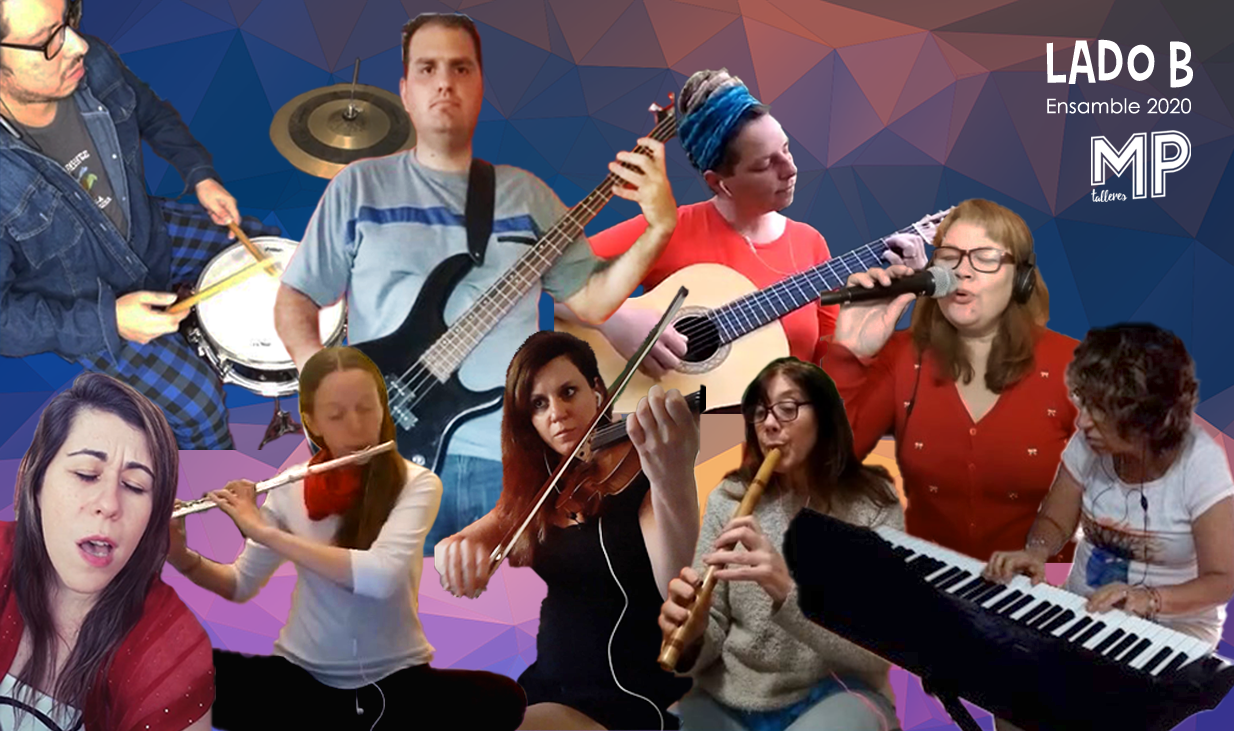
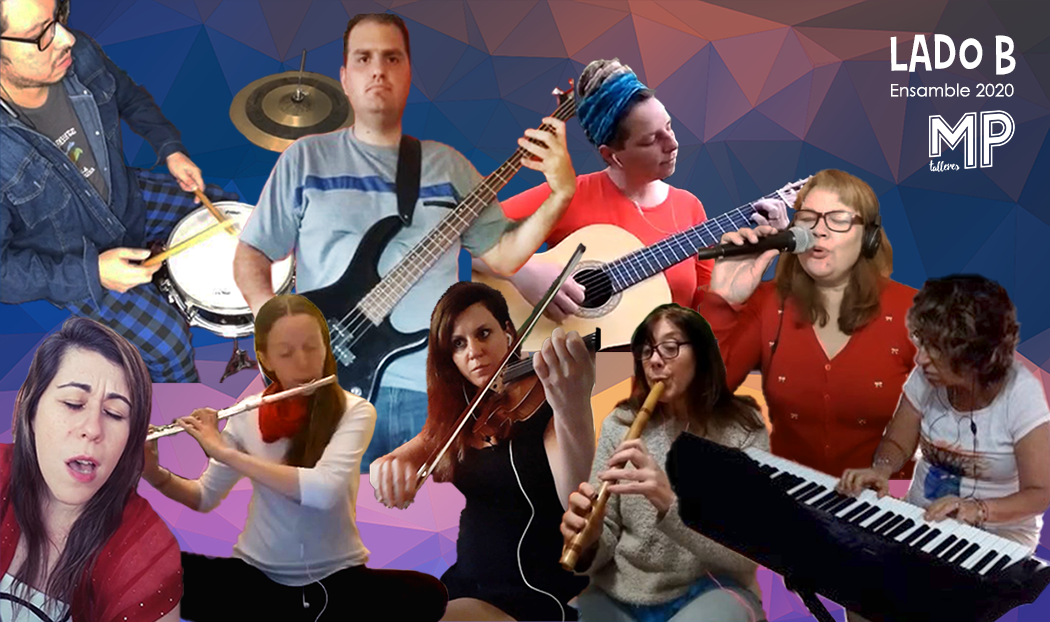
reduje foto LadoB

Changed region(s): [[0.8533, 0.0611, 0.9752, 0.2749], [0.3048, 0.0305, 0.3352, 0.0611]]

diff --git a/2020_souvenirs/M1LadoB.html b/2020_souvenirs/M1LadoB.html
@@ -16,34 +16,18 @@ map area {
 
 <img src="M1LadoB.png" width="1234" height="731" border="0" alt="" usemap="#M1LadoB_Map">
 <map name="M1LadoB_Map">
-<area shape="poly" alt="" coords="1046,41, 1121,40, 1196,39, 1196,88, 1121,89, 1046,90, 1046,41" href="https://youtube.com/playlist?list=PL-0kCyZwMgU8x2ag8uEmvJEE4vbhOhGbe">
-<area shape="poly" alt="" coords="1091,135, 1191,130, 1191,166, 1164,175, 1166,202, 1091,202, 1091,135" href="https://www.ensambles.musica.ar/">
-<area shape="poly" alt="" coords="698,517, 695,499, 693,479, 695,459, 703,443, 703,416, 703,389, 692,390, 682,395, 676,390, 667,389, 659,389, 654,386, 651,389, 648,395, 645,400, 638,404, 628,408, 623,415, 619,414, 613,412, 609,411, 605,387, 598,362, 587,340, 569,339, 551,335, 534,333, 518,349, 510,369, 508,391, 508,414,
-509,426, 508,442, 505,458, 502,469, 502,485, 502,501, 501,508, 496,512, 488,515, 482,517, 469,523, 455,533, 442,543, 434,554, 435,570, 443,584, 455,595, 470,602, 480,597, 485,592, 490,585, 499,577, 499,573, 498,564, 498,560, 514,566, 531,570, 540,580, 541,589, 537,602, 536,616, 537,632, 537,649, 534,663, 524,673, 524,691,
-524,714, 524,731, 532,730, 550,730, 575,730, 603,731, 630,730, 654,729, 671,726, 676,722, 669,708, 670,698, 676,684, 665,675, 657,660, 651,647, 652,641, 652,631, 653,625, 657,614, 659,601, 659,590, 671,573, 681,563, 689,554, 694,540, 698,517" href="https://xurl.es/BarbaraPagella2020">
-<area shape="poly" alt="" coords="902,522, 896,495, 891,479, 886,472, 882,470, 876,470, 870,469, 863,463, 855,450, 844,427, 841,409, 835,390, 824,374, 807,365, 793,362, 785,361, 779,362, 772,367, 759,377, 754,387, 749,397, 744,405, 744,426, 744,449, 738,469, 723,472, 715,481, 711,494, 711,509, 711,522, 707,533, 699,545,
-693,554, 693,564, 684,574, 674,584, 668,594, 661,616, 659,638, 662,659, 676,676, 685,683, 685,695, 682,707, 676,717, 681,724, 696,729, 720,731, 750,732, 783,732, 817,732, 848,731, 875,731, 893,730, 902,731, 901,713, 896,702, 890,691, 889,674, 889,666, 879,656, 863,647, 844,637, 826,629, 811,622, 804,618, 794,593, 787,568,
-782,555, 780,537, 781,523, 787,517, 795,512, 804,511, 836,521, 869,526, 902,522" href="https://xurl.es/mariacarbonara">
-<area shape="poly" alt="" coords="1150,324, 1131,324, 1114,324, 1099,326, 1088,332, 1080,345, 1077,366, 1069,375, 1068,385, 1073,397, 1079,409, 1084,420, 1084,431, 1073,445, 1062,462, 1055,477, 1052,486, 1045,503, 1036,523, 1028,542, 1020,554, 1006,554, 992,554, 990,558, 987,566, 985,570, 992,575, 1000,580, 1009,580, 1013,571,
-1020,568, 1029,568, 1034,578, 1042,585, 1046,573, 1047,560, 1055,554, 1065,545, 1074,536, 1077,532, 1078,538, 1079,550, 1079,564, 1077,571, 1069,579, 1065,585, 1068,593, 1074,594, 1085,596, 1091,597, 1091,606, 1093,610, 1097,610, 1106,610, 1109,608, 1116,603, 1119,601, 1123,612, 1136,622, 1155,630, 1175,636, 1194,642, 1206,647,
-1209,647, 1216,647, 1219,647, 1234,604, 1234,469, 1191,421, 1191,415, 1192,400, 1191,380, 1188,362, 1183,349, 1177,336, 1164,328, 1150,324" href="https://xurl.es/MartaMazza2020">
-<area shape="poly" alt="" coords="982,202, 964,210, 956,210, 950,214, 944,224, 937,244, 932,261, 922,276, 896,276, 884,276, 872,276, 862,280, 853,290, 843,301, 837,318, 832,335, 826,349, 823,352, 824,361, 828,371, 830,377, 834,379, 841,385, 845,390, 855,401, 859,414, 859,428, 859,439, 860,446, 865,447, 875,440, 893,423,
-897,447, 899,472, 907,495, 908,515, 917,528, 932,536, 951,540, 968,549, 980,552, 989,551, 1000,547, 1017,540, 1019,542, 1021,544, 1023,540, 1025,517, 1030,502, 1038,490, 1047,478, 1058,461, 1060,446, 1064,436, 1069,424, 1069,405, 1071,397, 1068,392, 1063,387, 1059,382, 1067,367, 1075,350, 1077,334, 1073,333, 1065,331, 1057,328,
-1053,327, 1044,321, 1044,313, 1046,303, 1047,288, 1039,271, 1033,251, 1026,231, 1016,215, 1002,204, 982,202" href="https://xurl.es/CristinaCampos">
-<area shape="poly" alt="" coords="726,70, 714,70, 701,71, 690,77, 684,92, 680,108, 682,123, 690,136, 696,151, 703,166, 711,181, 712,196, 703,208, 688,208, 681,210, 680,216, 679,226, 677,239, 670,257, 654,279, 653,287, 649,295, 644,301, 640,300, 634,301, 611,324, 602,329, 593,329, 585,329, 582,331, 587,340, 602,352, 607,361,
-609,368, 610,378, 617,392, 624,402, 631,405, 643,405, 650,392, 659,383, 672,377, 686,382, 695,381, 701,378, 709,380, 721,390, 722,395, 722,402, 722,405, 736,390, 753,374, 766,359, 770,357, 778,354, 786,351, 790,349, 800,349, 811,347, 820,341, 825,329, 827,317, 829,315, 831,311, 827,310, 819,311, 818,311, 818,283, 849,269,
-881,258, 895,258, 909,256, 921,250, 929,237, 937,224, 935,219, 927,220, 914,224, 902,235, 884,247, 864,256, 845,259, 831,254, 826,241, 823,231, 818,224, 807,224, 798,223, 787,220, 779,217, 782,214, 788,210, 791,207, 795,203, 796,192, 795,177, 793,161, 791,148, 791,140, 782,128, 772,119, 759,105, 745,91, 733,82, 726,70" href="https://xurl.es/GabrielaConterno">
-<area shape="poly" alt="" coords="447,14, 426,14, 412,23, 405,37, 402,56, 402,76, 405,96, 407,114, 411,122, 415,130, 417,138, 414,144, 403,147, 380,160, 365,166, 354,169, 347,170, 342,171, 338,175, 333,183, 325,199, 313,224, 305,233, 298,250, 293,272, 289,297, 288,321, 288,341, 292,356, 298,361, 307,354, 317,349, 320,340,
-318,327, 317,315, 322,305, 331,301, 339,295, 345,291, 348,293, 348,304, 346,308, 343,317, 341,321, 345,328, 348,338, 352,346, 361,349, 372,349, 382,357, 390,368, 396,379, 401,387, 402,412, 403,427, 406,435, 410,440, 415,442, 422,446, 430,454, 441,469, 456,469, 475,469, 490,469, 492,465, 495,457, 497,453, 497,425, 498,396,
-503,369, 515,344, 535,324, 536,318, 539,306, 541,294, 542,288, 560,297, 580,309, 598,319, 615,299, 634,282, 652,264, 667,245, 676,222, 676,194, 668,179, 661,162, 659,144, 666,130, 649,130, 634,139, 621,152, 613,168, 610,185, 622,198, 635,207, 646,217, 652,232, 629,250, 613,258, 603,257, 594,248, 584,231, 569,208, 556,196,
-540,185, 524,178, 513,172, 498,167, 486,166, 473,151, 470,136, 475,120, 482,103, 482,84, 483,66, 482,48, 477,33, 466,22, 447,14" href="http://xurl.es/ChristianPastore2020">
-<area shape="poly" alt="" coords="80,2, 76,18, 80,29, 88,36, 99,43, 111,51, 122,61, 124,64, 130,71, 135,79, 138,82, 140,82, 145,83, 149,87, 166,111, 186,130, 202,144, 215,162, 224,183, 233,202, 244,207, 258,211, 272,215, 282,222, 285,233, 288,236, 293,242, 296,245, 285,259, 278,279, 272,300, 268,318, 271,332, 277,349, 284,361,
-285,383, 281,395, 271,397, 257,394, 238,387, 235,386, 229,384, 226,383, 227,413, 231,443, 209,448, 185,448, 180,443, 177,433, 177,422, 177,414, 162,395, 142,381, 119,377, 82,364, 45,349, 31,348, 14,349, 0,349, 0,342, 0,323, 0,294, 0,259, 0,218, 0,174, 0,131, 0,90, 0,55, 0,26, 0,7, 0,0, 80,2" href="https://xurl.es/AlbertoRichter1">
-<area shape="poly" alt="" coords="336,349, 318,356, 307,370, 303,390, 302,411, 304,433, 307,450, 309,462, 304,465, 293,471, 281,476, 276,479, 256,479, 234,480, 216,488, 199,496, 186,502, 176,512, 172,530, 173,552, 185,571, 204,587, 225,598, 245,605, 259,592, 273,576, 286,562, 294,573, 294,586, 289,602, 283,617, 279,631,
-276,638, 273,647, 271,652, 255,656, 237,657, 222,651, 221,674, 222,700, 226,723, 238,722, 260,723, 290,725, 325,727, 362,729, 401,731, 438,731, 471,731, 498,728, 516,723, 524,715, 524,709, 524,699, 524,693, 500,679, 471,672, 455,672, 440,671, 429,666, 435,655, 435,648, 430,641, 423,632, 415,613, 414,596, 417,575, 422,554,
-430,531, 436,509, 435,487, 425,469, 418,468, 408,462, 398,456, 394,452, 390,435, 387,415, 384,395, 378,376, 369,360, 356,351, 336,349" href="https://xurl.es/JessicaCamacho2020">
-<area shape="poly" alt="" coords="73,389, 59,390, 46,402, 36,423, 28,448, 22,474, 18,498, 16,517, 17,526, 12,525, 1,522, -3,521, -1,626, 0,731, 105,731, 210,731, 215,694, 214,662, 206,633, 188,605, 158,575, 154,574, 155,573, 160,571, 165,566, 167,556, 167,534, 168,518, 171,500, 177,474, 180,445, 172,421, 156,401, 135,387,
-113,378, 94,375, 79,379, 73,389" href="https://xurl.es/VanesaPoborca">
+<area shape="poly" alt="" coords="890,37, 1018,35, 1018,77, 890,79, 890,37" href="https://youtube.com/playlist?list=PL-0kCyZwMgU8x2ag8uEmvJEE4vbhOhGbe">
+<area shape="poly" alt="" coords="929,117, 1014,113, 1014,143, 991,151, 992,173, 929,174, 929,117" href="https://www.ensambles.musica.ar/">
+<area shape="poly" alt="" coords="595,441, 593,426, 592,409, 593,392, 600,378, 600,355, 600,332, 590,333, 582,337, 573,332, 562,332, 557,330, 554,336, 551,342, 545,345, 536,349, 532,354, 529,354, 523,352, 520,351, 514,320, 501,291, 486,290, 471,286, 456,285, 443,299, 436,315, 434,334, 434,354, 435,363, 434,377, 431,391, 429,400, 429,414, 429,427, 428,434, 420,438, 412,441, 397,449, 382,460, 372,472, 372,486, 379,498, 390,507, 402,513, 412,508, 417,500, 427,492, 426,488, 426,481, 426,477, 440,482, 454,486, 461,495, 463,502, 459,513, 458,528, 459,546, 457,562, 448,573, 448,589, 448,608, 448,622, 455,622, 470,622, 491,622, 515,622, 538,622, 558,621, 572,618, 577,615, 571,603, 571,594, 577,583, 568,575, 561,562, 556,551, 556,546, 557,537, 557,533, 562,518, 562,503, 573,488, 581,480, 587,472, 592,461, 595,441" href="https://xurl.es/BarbaraPagella2020">
+<area shape="poly" alt="" coords="769,445, 763,420, 758,407, 754,402, 749,401, 744,401, 737,397, 729,386, 719,365, 717,349, 711,333, 702,319, 688,312, 674,309, 667,309, 660,313, 647,322, 641,335, 635,346, 635,364, 634,383, 629,400, 617,403, 610,410, 607,422, 606,434, 607,445, 603,454, 597,464, 591,472, 591,480, 584,489, 575,498, 570,506, 564,525, 562,544, 565,561, 577,576, 584,582, 585,592, 582,602, 577,611, 582,617, 598,622, 623,623, 652,623, 684,623, 714,622, 741,622, 760,622, 769,622, 768,607, 763,598, 758,588, 758,574, 756,566, 745,556, 728,547, 709,538, 693,531, 685,527, 677,506, 671,484, 667,473, 665,458, 665,446, 674,439, 685,436, 712,445, 741,448, 769,445" href="https://xurl.es/mariacarbonara">
+<area shape="poly" alt="" coords="979,277, 960,277, 943,277, 930,281, 921,292, 917,312, 910,322, 911,333, 917,345, 922,357, 923,368, 914,380, 905,395, 898,407, 895,414, 890,429, 883,446, 875,462, 869,472, 857,472, 845,472, 843,476, 840,482, 839,486, 848,493, 859,494, 863,487, 868,485, 876,484, 881,492, 887,499, 890,488, 892,477, 899,473, 907,465, 914,457, 917,454, 918,458, 919,469, 919,480, 917,487, 910,493, 907,499, 909,505, 914,506, 924,508, 929,509, 929,518, 933,520, 942,520, 944,518, 950,514, 953,512, 956,522, 967,530, 983,536, 1000,542, 1016,547, 1026,551, 1029,551, 1035,551, 1037,551, 1050,515, 1050,400, 1014,359, 1014,354, 1014,341, 1014,325, 1012,309, 1007,298, 1002,288, 991,281, 979,277" href="https://xurl.es/MartaMazza2020">
+<area shape="poly" alt="" coords="836,174, 821,181, 814,181, 809,184, 804,192, 799,210, 794,224, 786,236, 763,237, 750,237, 737,238, 727,248, 718,258, 713,272, 709,287, 704,298, 701,301, 703,309, 705,317, 707,322, 711,324, 717,329, 720,333, 728,343, 732,354, 732,365, 732,375, 733,381, 737,382, 746,376, 761,361, 764,381, 766,403, 773,422, 774,439, 782,450, 794,457, 810,461, 827,469, 838,471, 849,467, 866,461, 867,462, 870,464, 871,461, 873,441, 877,428, 884,418, 891,408, 901,393, 902,381, 906,372, 910,362, 910,346, 911,338, 906,332, 902,326, 908,314, 915,299, 917,286, 912,284, 902,281, 897,280, 889,275, 889,268, 891,259, 891,247, 885,232, 880,215, 874,199, 866,185, 854,175, 836,174" href="https://xurl.es/CristinaCampos">
+<area shape="poly" alt="" coords="619,62, 609,62, 598,62, 589,68, 584,80, 581,94, 582,107, 591,124, 600,143, 607,156, 608,169, 600,179, 586,179, 581,182, 580,189, 579,201, 573,217, 558,239, 558,245, 554,252, 550,258, 546,257, 541,258, 522,277, 514,281, 506,282, 500,281, 497,283, 501,291, 514,301, 519,308, 520,315, 521,323, 527,335, 532,343, 539,346, 549,346, 558,331, 573,322, 585,326, 593,325, 598,323, 605,325, 615,333, 616,341, 616,346, 628,334, 642,320, 653,307, 658,305, 668,301, 674,298, 687,298, 699,292, 704,282, 705,271, 707,270, 708,266, 705,265, 698,266, 697,266, 697,242, 723,231, 751,221, 767,221, 782,216, 791,204, 798,192, 797,188, 790,189, 779,192, 769,202, 754,212, 736,219, 720,222, 708,218, 704,207, 702,198, 697,193, 688,192, 681,192, 671,189, 664,186, 667,184, 672,180, 674,178, 678,173, 678,161, 677,144, 675,130, 674,121, 666,111, 658,103, 647,91, 635,80, 625,72, 619,62" href="https://xurl.es/GabrielaConterno">
+<area shape="poly" alt="" coords="383,14, 362,15, 350,25, 345,42, 344,61, 346,81, 349,99, 353,107, 357,116, 356,123, 345,127, 324,139, 310,144, 301,146, 296,147, 292,149, 287,156, 280,169, 269,192, 262,200, 256,214, 252,233, 249,254, 247,274, 248,292, 251,304, 256,309, 264,303, 273,299, 275,291, 273,280, 273,270, 277,261, 284,258, 291,253, 296,249, 299,251, 299,260, 297,264, 294,271, 293,275, 296,281, 298,289, 302,296, 310,298, 322,300, 331,310, 338,322, 344,331, 344,354, 346,367, 349,374, 353,377, 359,380, 367,386, 377,400, 391,400, 406,400, 419,400, 421,397, 423,390, 425,387, 425,363, 426,339, 430,315, 440,294, 457,277, 458,272, 460,262, 462,251, 463,247, 479,254, 496,264, 511,273, 525,256, 541,241, 557,226, 569,210, 577,191, 577,167, 570,155, 564,140, 562,125, 568,113, 554,113, 541,120, 530,131, 523,145, 521,159, 531,170, 542,178, 551,186, 556,199, 537,215, 524,222, 515,221, 507,213, 498,199, 486,179, 475,169, 461,159, 448,153, 438,148, 426,144, 416,143, 405,131, 402,118, 406,104, 412,90, 412,71, 413,52, 410,35, 401,22, 383,14" href="http://xurl.es/ChristianPastore2020">
+<area shape="poly" alt="" coords="71,4, 68,19, 73,29, 84,37, 96,44, 107,54, 110,59, 117,67, 120,72, 124,72, 130,76, 144,97, 161,113, 179,129, 191,152, 201,174, 210,178, 222,181, 234,185, 243,191, 245,200, 248,203, 252,208, 254,210, 243,228, 236,251, 231,272, 234,284, 238,298, 244,309, 245,327, 241,337, 234,339, 221,337, 205,331, 203,330, 198,328, 195,327, 196,353, 199,378, 180,382, 161,382, 155,375, 154,364, 154,354, 141,337, 124,326, 104,322, 73,312, 42,298, 30,297, 16,298, 3,298, 3,292, 3,273, 3,244, 3,209, 3,171, 3,130, 3,91, 3,56, 3,28, 3,9, 3,2, 71,4" href="https://xurl.es/AlbertoRichter1">
+<area shape="poly" alt="" coords="288,298, 273,304, 264,316, 260,333, 260,351, 261,369, 264,384, 266,394, 261,397, 252,401, 242,406, 238,409, 220,408, 202,410, 186,416, 172,423, 161,428, 153,436, 149,452, 150,470, 160,487, 176,500, 194,510, 211,516, 223,505, 235,491, 246,479, 253,491, 251,506, 245,523, 240,538, 238,544, 235,552, 233,555, 220,559, 205,560, 192,555, 191,585, 195,616, 207,615, 229,616, 258,618, 291,620, 327,622, 362,622, 395,622, 421,621, 440,616, 448,609, 448,604, 448,595, 448,590, 428,579, 403,572, 389,573, 377,572, 367,567, 373,556, 370,548, 362,538, 356,522, 354,508, 357,490, 362,472, 368,453, 373,434, 373,416, 364,400, 358,399, 349,395, 341,389, 338,386, 334,369, 331,349, 327,329, 319,312, 307,301, 288,298" href="https://xurl.es/JessicaCamacho2020">
+<area shape="poly" alt="" coords="65,332, 53,333, 43,344, 34,361, 27,382, 22,405, 19,425, 17,441, 18,449, 13,447, 5,445, 0,444, 2,533, 3,622, 93,622, 182,622, 185,591, 185,564, 178,539, 163,515, 137,490, 134,489, 137,488, 142,484, 145,474, 145,455, 146,441, 149,426, 154,404, 156,380, 149,359, 135,343, 118,331, 100,323, 83,321, 70,324, 65,332" href="https://xurl.es/VanesaPoborca">
+
 
 <p style="font-size:130%;color:BBBBBB;font-family:verdana;">Hac&eacute; click en tu foto para acceder al disco de regalo<br>
 &iexcl;Esperamos que lo disfrutes!</p>
